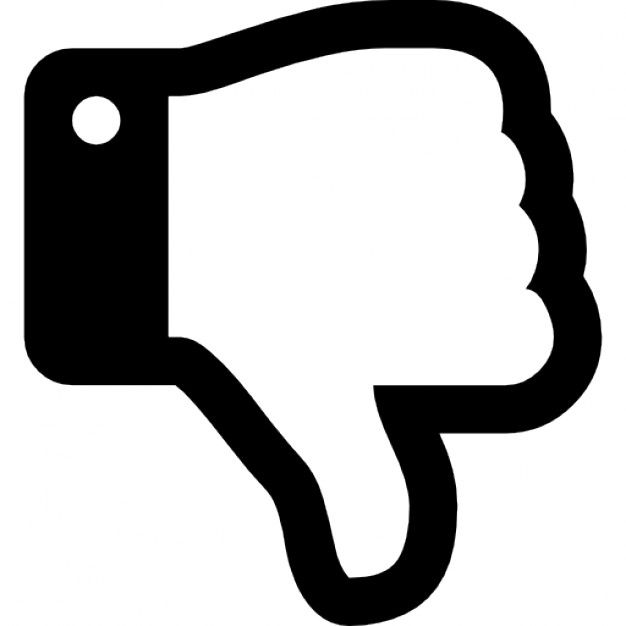
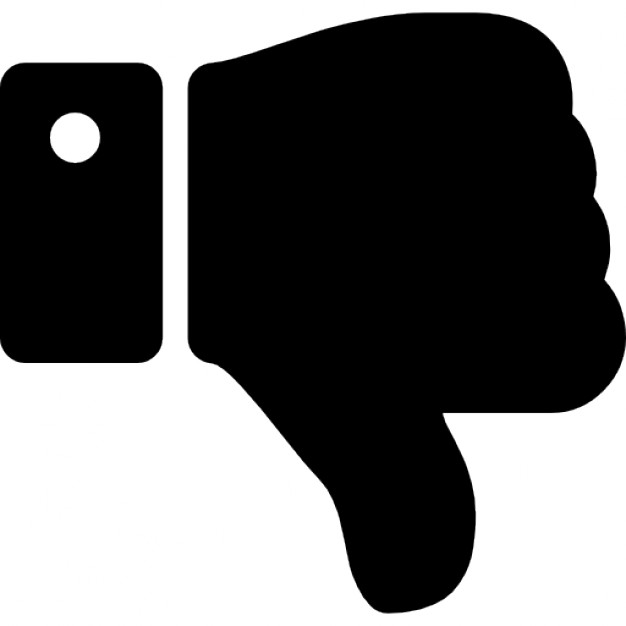
ammending all the buttons to all be consistent

diff --git a/src/CSS/Comments.css b/src/CSS/Comments.css
@@ -7,9 +7,9 @@
     flex-direction: column;
 }
 
-/* button {
+.addCommentButton {
     align-content: center;
-    font-size: 0.3rem;
+    font-size: 1.5rem;
     color: black;
     text-transform: uppercase;
     background-color: rgba(2, 90, 204, 0.336);
@@ -18,4 +18,37 @@
     display: inline-block;
     border: none;
     margin-top: 1rem;
-} */
+}
+
+.addCommentButton:hover {
+    background: red;
+    color: white;
+    letter-spacing: 1px;
+    -webkit-box-shadow: 0px 5px 40px -10px rgba(0, 0, 0, 0.57);
+    -moz-box-shadow: 0px 5px 40px -10px rgba(0, 0, 0, 0.57);
+    box-shadow: 5px 40px -10px rgba(0, 0, 0, 0.57);
+    transition: all 0.4s ease 0s;
+}
+
+.deleteCommentButton {
+    align-content: center;
+    font-size: 1rem;
+    color: black;
+    text-transform: uppercase;
+    background-color: rgba(2, 90, 204, 0.336);
+    padding: 1rem;
+    border-radius: 1rem;
+    display: inline-block;
+    border: none;
+    margin-top: 1rem;
+}
+
+.deleteCommentButton:hover {
+    background: red;
+    color: white;
+    letter-spacing: 1px;
+    -webkit-box-shadow: 0px 5px 40px -10px rgba(0, 0, 0, 0.57);
+    -moz-box-shadow: 0px 5px 40px -10px rgba(0, 0, 0, 0.57);
+    box-shadow: 5px 40px -10px rgba(0, 0, 0, 0.57);
+    transition: all 0.4s ease 0s;
+}

diff --git a/src/Components/CommentsByArticleId.jsx b/src/Components/CommentsByArticleId.jsx
@@ -34,7 +34,7 @@ class CommentsByArticleId extends Component {
                                 {dateToShow}</p>
                             <CommentVoter votes={comment.votes} article_id={article_id} comment_id={comment.comment_id} />
                             {
-                                this.state.username === comment.username && <button onClick={() => this.handleDelete(comment.comment_id)} disabled={user.username !== comment.author} >Delete Comment</button>
+                                this.state.username === comment.username && <button onClick={() => this.handleDelete(comment.comment_id)} className='deleteCommentButton' disabled={user.username === comment.author}>Delete Comment</button>
                             }
                         </li>)
                     }
@@ -43,7 +43,7 @@ class CommentsByArticleId extends Component {
                     <label htmlFor='body' ><h2>Body</h2></label>
                     <textarea id='body' type='text' value={this.state.body} onChange={this.handleChange} required ></textarea>
 
-                    <button type='submit'>Add Comment</button>
+                    <button type='submit' className='addCommentButton'>Add Comment</button>
                 </form>
             </div >
         );

diff --git a/src/Components/CommentVoter.jsx b/src/Components/CommentVoter.jsx
@@ -3,7 +3,7 @@ import * as api from '../Utils/api';
 import up from '../images/thumbsup.png';
 import down from '../images/thumbsdown.jpg';
 import Error from './Error'
-
+import '../CSS/thumb.css';
 
 class CommentVoter extends Component {
     state = {
@@ -22,8 +22,16 @@ class CommentVoter extends Component {
         return (
             <div className='commentsVoter'>
 
-                <button onClick={() => this.updateComment(1)} disabled={(commentVote > 0)}>Vote up</button>
-                <button onClick={() => this.updateComment(-1)} disabled={(commentVote < 0)}>Vote Down</button>
+                <button onClick={() => this.updateComment(1)} disabled={(commentVote > 0)}> <img
+                    src={up}
+                    className='thumb'
+                    alt="thumb down"
+                /></button>
+                <button onClick={() => this.updateComment(-1)} disabled={(commentVote < 0)}><img
+                    src={down}
+                    className='thumb'
+                    alt="thumb down"
+                /></button>
                 <p className='votes'>{votes + commentVote}</p>
             </div>
         );

diff --git a/src/CSS/Topics.css b/src/CSS/Topics.css
@@ -9,7 +9,7 @@
 
 .topicsItem {
     color: white;
-    border: 2px solid blue;
+    border: 2px solid #060663;
     border-radius: 15px;
     transition: 1s;
     width: 40%;
@@ -29,14 +29,14 @@
 }
 
 .topicsDiv>h3 {
-    font-family: medium-content-serif-font, Georgia, Cambria, "Times New Roman", Times, serif;
+    font-family: "Lucida Grande", "Lucida Sans Unicode", "Lucida Sans", Geneva, Arial, sans-serif!important;
     color: red;
-    font-size: 3rem;
-    font-style: italic;
+    font-size: 2rem;
+    font-style: normal;
 }
 
 .topicsItem p {
-    font-family: medium-content-serif-font, Georgia, Cambria, "Times New Roman", Times, serif;
+    font-family: "Lucida Grande", "Lucida Sans Unicode", "Lucida Sans", Geneva, Arial, sans-serif!important;
     margin: 1rem;
     color: black;
     text-decoration: none;
@@ -44,7 +44,7 @@
 }
 
 .topicsItem b {
-    font-family: medium-content-serif-font, Georgia, Cambria, "Times New Roman", Times, serif;
+    font-family: "Lucida Grande", "Lucida Sans Unicode", "Lucida Sans", Geneva, Arial, sans-serif!important;
     color: red;
     text-decoration: none;
     font-size: 1.5rem;

diff --git a/src/CSS/Articles.css b/src/CSS/Articles.css
@@ -12,11 +12,11 @@
 
 .articleItem {
     color: white;
-    border: solid 1px black;
+    border: solid 2px #060663;
     border-radius: 15px;
     transition: 1s;
-    width: 50%;
-    height: 40%;
+    width: 60%;
+    height: 45%;
     margin: 0 auto;
     padding: 1rem;
     list-style: none;
@@ -28,7 +28,6 @@
 
 .articleItem:hover {
     transform: scale(0.9);
-    background-color: rgba(2, 90, 204, 0.336);
 }
 
 .articleItem a {
@@ -43,7 +42,7 @@
 
 .atitle {
     color: red;
-    font-family: medium-content-serif-font, Georgia, Cambria, "Times New Roman", Times, serif;
+    font-family: "Lucida Grande", "Lucida Sans Unicode", "Lucida Sans", Geneva, Arial, sans-serif!important;
     font-size: 2rem;
 }
 
@@ -52,9 +51,10 @@
 }
 
 h3 {
-    font-family: medium-content-serif-font, Georgia, Cambria, "Times New Roman", Times, serif;
-    font-size: 3rem;
+    font-family: "Lucida Grande", "Lucida Sans Unicode", "Lucida Sans", Geneva, Arial, sans-serif!important;
     color: red;
+    font-size: 2rem;
+    font-style: normal;
 }
 
 @media(max-width: 900px) {

diff --git a/src/Components/Voter.jsx b/src/Components/Voter.jsx
@@ -19,8 +19,16 @@ class Voter extends Component {
         }
         return (
             <div className='articleVoter'>
-                <button onClick={() => this.updateVote(1)} disabled={(voteChange > 0)}>Votes up</button>
-                <button onClick={() => this.updateVote(-1)} disabled={(voteChange < 0)}>Vote Down</button>
+                <button onClick={() => this.updateVote(1)} disabled={(voteChange > 0)}><img
+                    src={up}
+                    className='thumb'
+                    alt="thumb down"
+                /></button>
+                <button onClick={() => this.updateVote(-1)} disabled={(voteChange < 0)}><img
+                    src={down}
+                    className='thumb'
+                    alt="thumb down"
+                /></button>
                 <p className='votes'>{votes + voteChange}</p>
             </div >
 

diff --git a/src/CSS/MostPopularArticles.css b/src/CSS/MostPopularArticles.css
@@ -18,7 +18,7 @@
 
 .articlesList {
     font-family: medium-content-serif-font, Georgia, Cambria, "Times New Roman", Times, serif;
-    border: 2px solid blue;
+    border: 2px solid #060663;
     background-color: white;
     transition: 1s;
 }
@@ -28,10 +28,12 @@
 }
 
 .articlesList p {
-    font-family: medium-content-serif-font, Georgia, Cambria, "Times New Roman", Times, serif;
+    font-family: "Lucida Grande", "Lucida Sans Unicode", "Lucida Sans", Geneva, Arial, sans-serif!important;
+    font-style: normal;
     color: #060663;
 }
 
 .articlesList b {
+    text-decoration: none;
     color: rgba(255, 0, 0, 0.651);
 }

diff --git a/src/Components/Header.jsx b/src/Components/Header.jsx
@@ -1,11 +1,11 @@
 import React from 'react';
 import '../CSS/Header.css'
 import Logout from './Logout';
-
+import logo from '../images/logo.png'
 const Header = (props) => {
     return (
         <div className='header'>
-            <div className='left'><h1>NORTHCODERS NEWS</h1></div>
+            <div className='left'><h1> <img src={logo} className='logo'></img>Northcoders News</h1></div>
             <div className='right'>
                 <p>Welcome {props.user.name}</p>
                 <br></br>

diff --git a/src/Components/HomePage.jsx b/src/Components/HomePage.jsx
@@ -14,11 +14,11 @@ const HomePage = () => {
             <ul className='item'>
 
                 <li className='listItem'>
-                    <h2>Trending</h2>
+                    <h2>Trending Articles</h2>
                     <MostRecentArticles />
                 </li>
                 <li className='listItem'>
-                    <h2>Most Popular</h2>
+                    <h2>Most Popular Articles</h2>
                     <MostPopularArticles />
                 </li>
             </ul>

diff --git a/src/CSS/Header.css b/src/CSS/Header.css
@@ -5,10 +5,18 @@
   background-color: #060663;
 }
 
+.logo {
+  width: 3rem;
+  height: 3rem;
+  padding-right: 1rem;
+}
+
 .left h1 {
-  font-size: 4.5rem;
+  padding-top: 1rem;
+  padding-left: 20rem;
+  font-size: 3rem;
   color: white;
-  font-family: Perpetua Titling MT;
+  font-family: "Lucida Grande", "Lucida Sans Unicode", "Lucida Sans", Geneva, Arial, sans-serif!important;
 }
 
 .right {

diff --git a/src/CSS/Login.css b/src/CSS/Login.css
@@ -12,11 +12,12 @@
     width: 40rem;
 }
 
+/* 
 h1 {
     font-size: 3rem;
     color: black;
-    font-family: medium-content-serif-font, Georgia, Cambria, "Times New Roman", Times, serif;
-}
+    font-family: "Lucida Grande", "Lucida Sans Unicode", "Lucida Sans", Geneva, Arial, sans-serif!important;
+} */
 
 .button {
     width: 4rem;

diff --git a/src/CSS/ArticlesById.css b/src/CSS/ArticlesById.css
@@ -7,7 +7,7 @@
 }
 
 .articleById p {
-    font-family: medium-content-serif-font, Georgia, Cambria, "Times New Roman", Times, serif;
+    font-family: "Lucida Grande", "Lucida Sans Unicode", "Lucida Sans", Geneva, Arial, sans-serif!important;
     letter-spacing: .01rem;
 }
 
